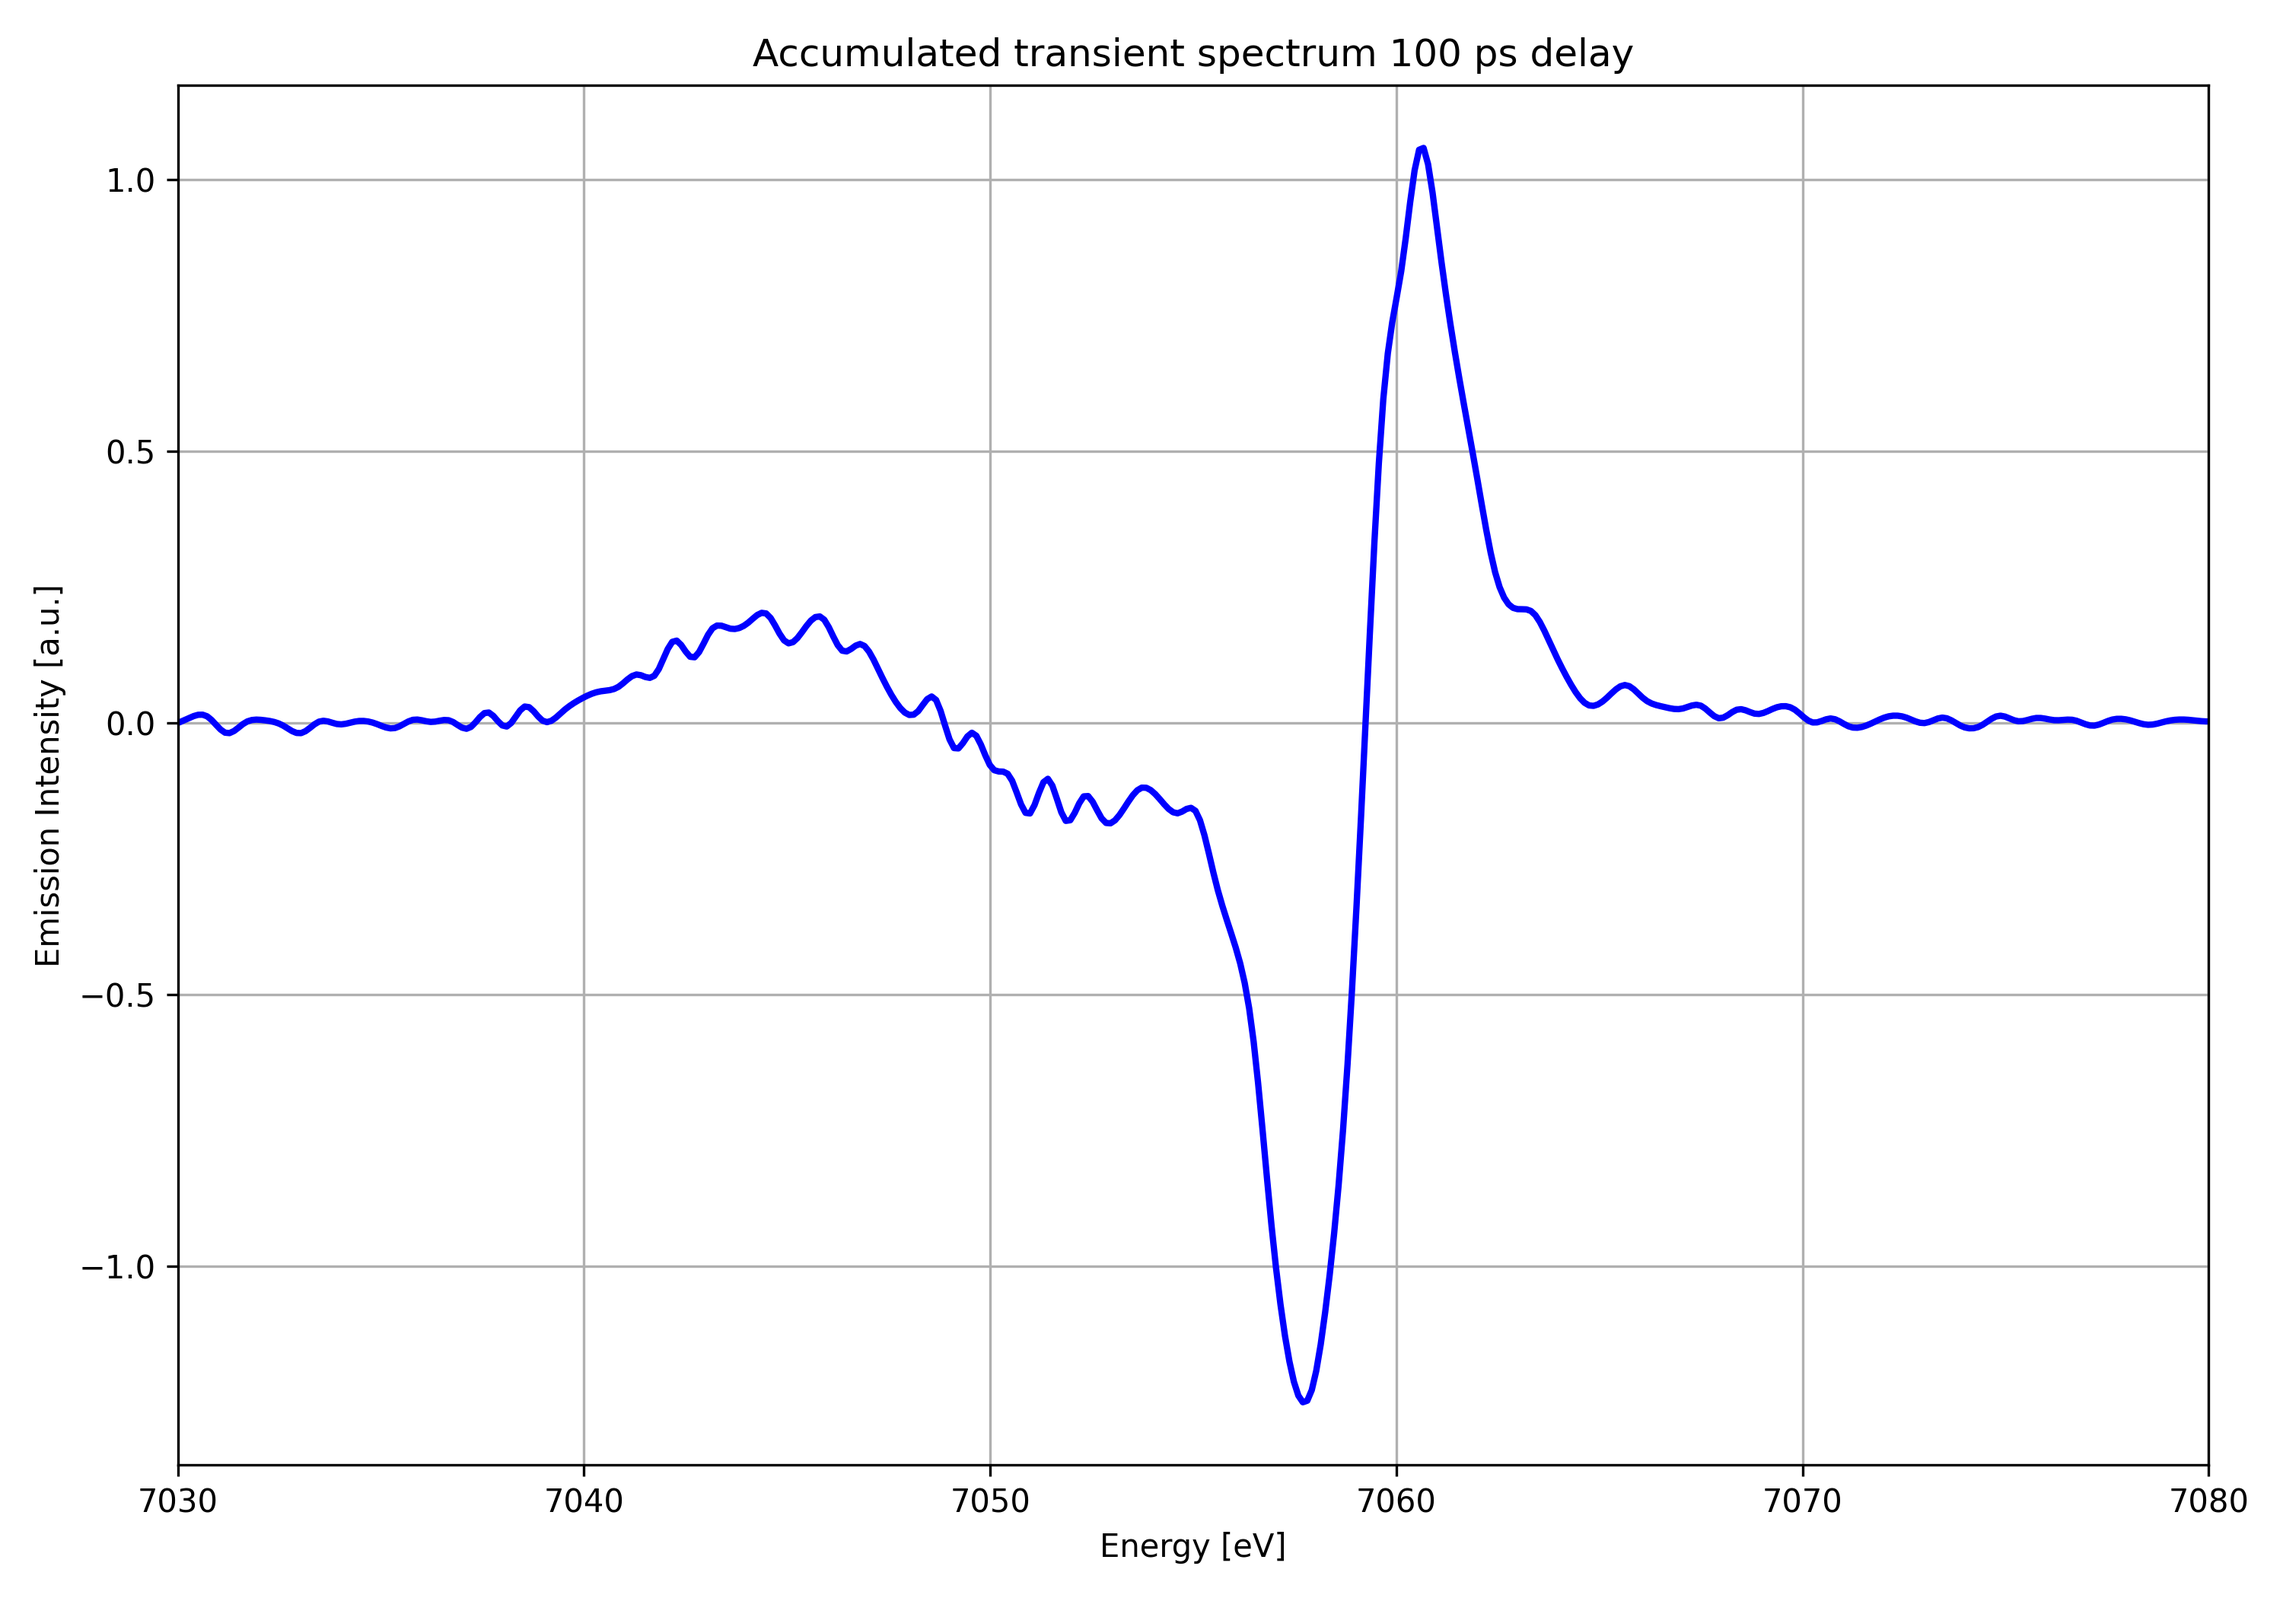
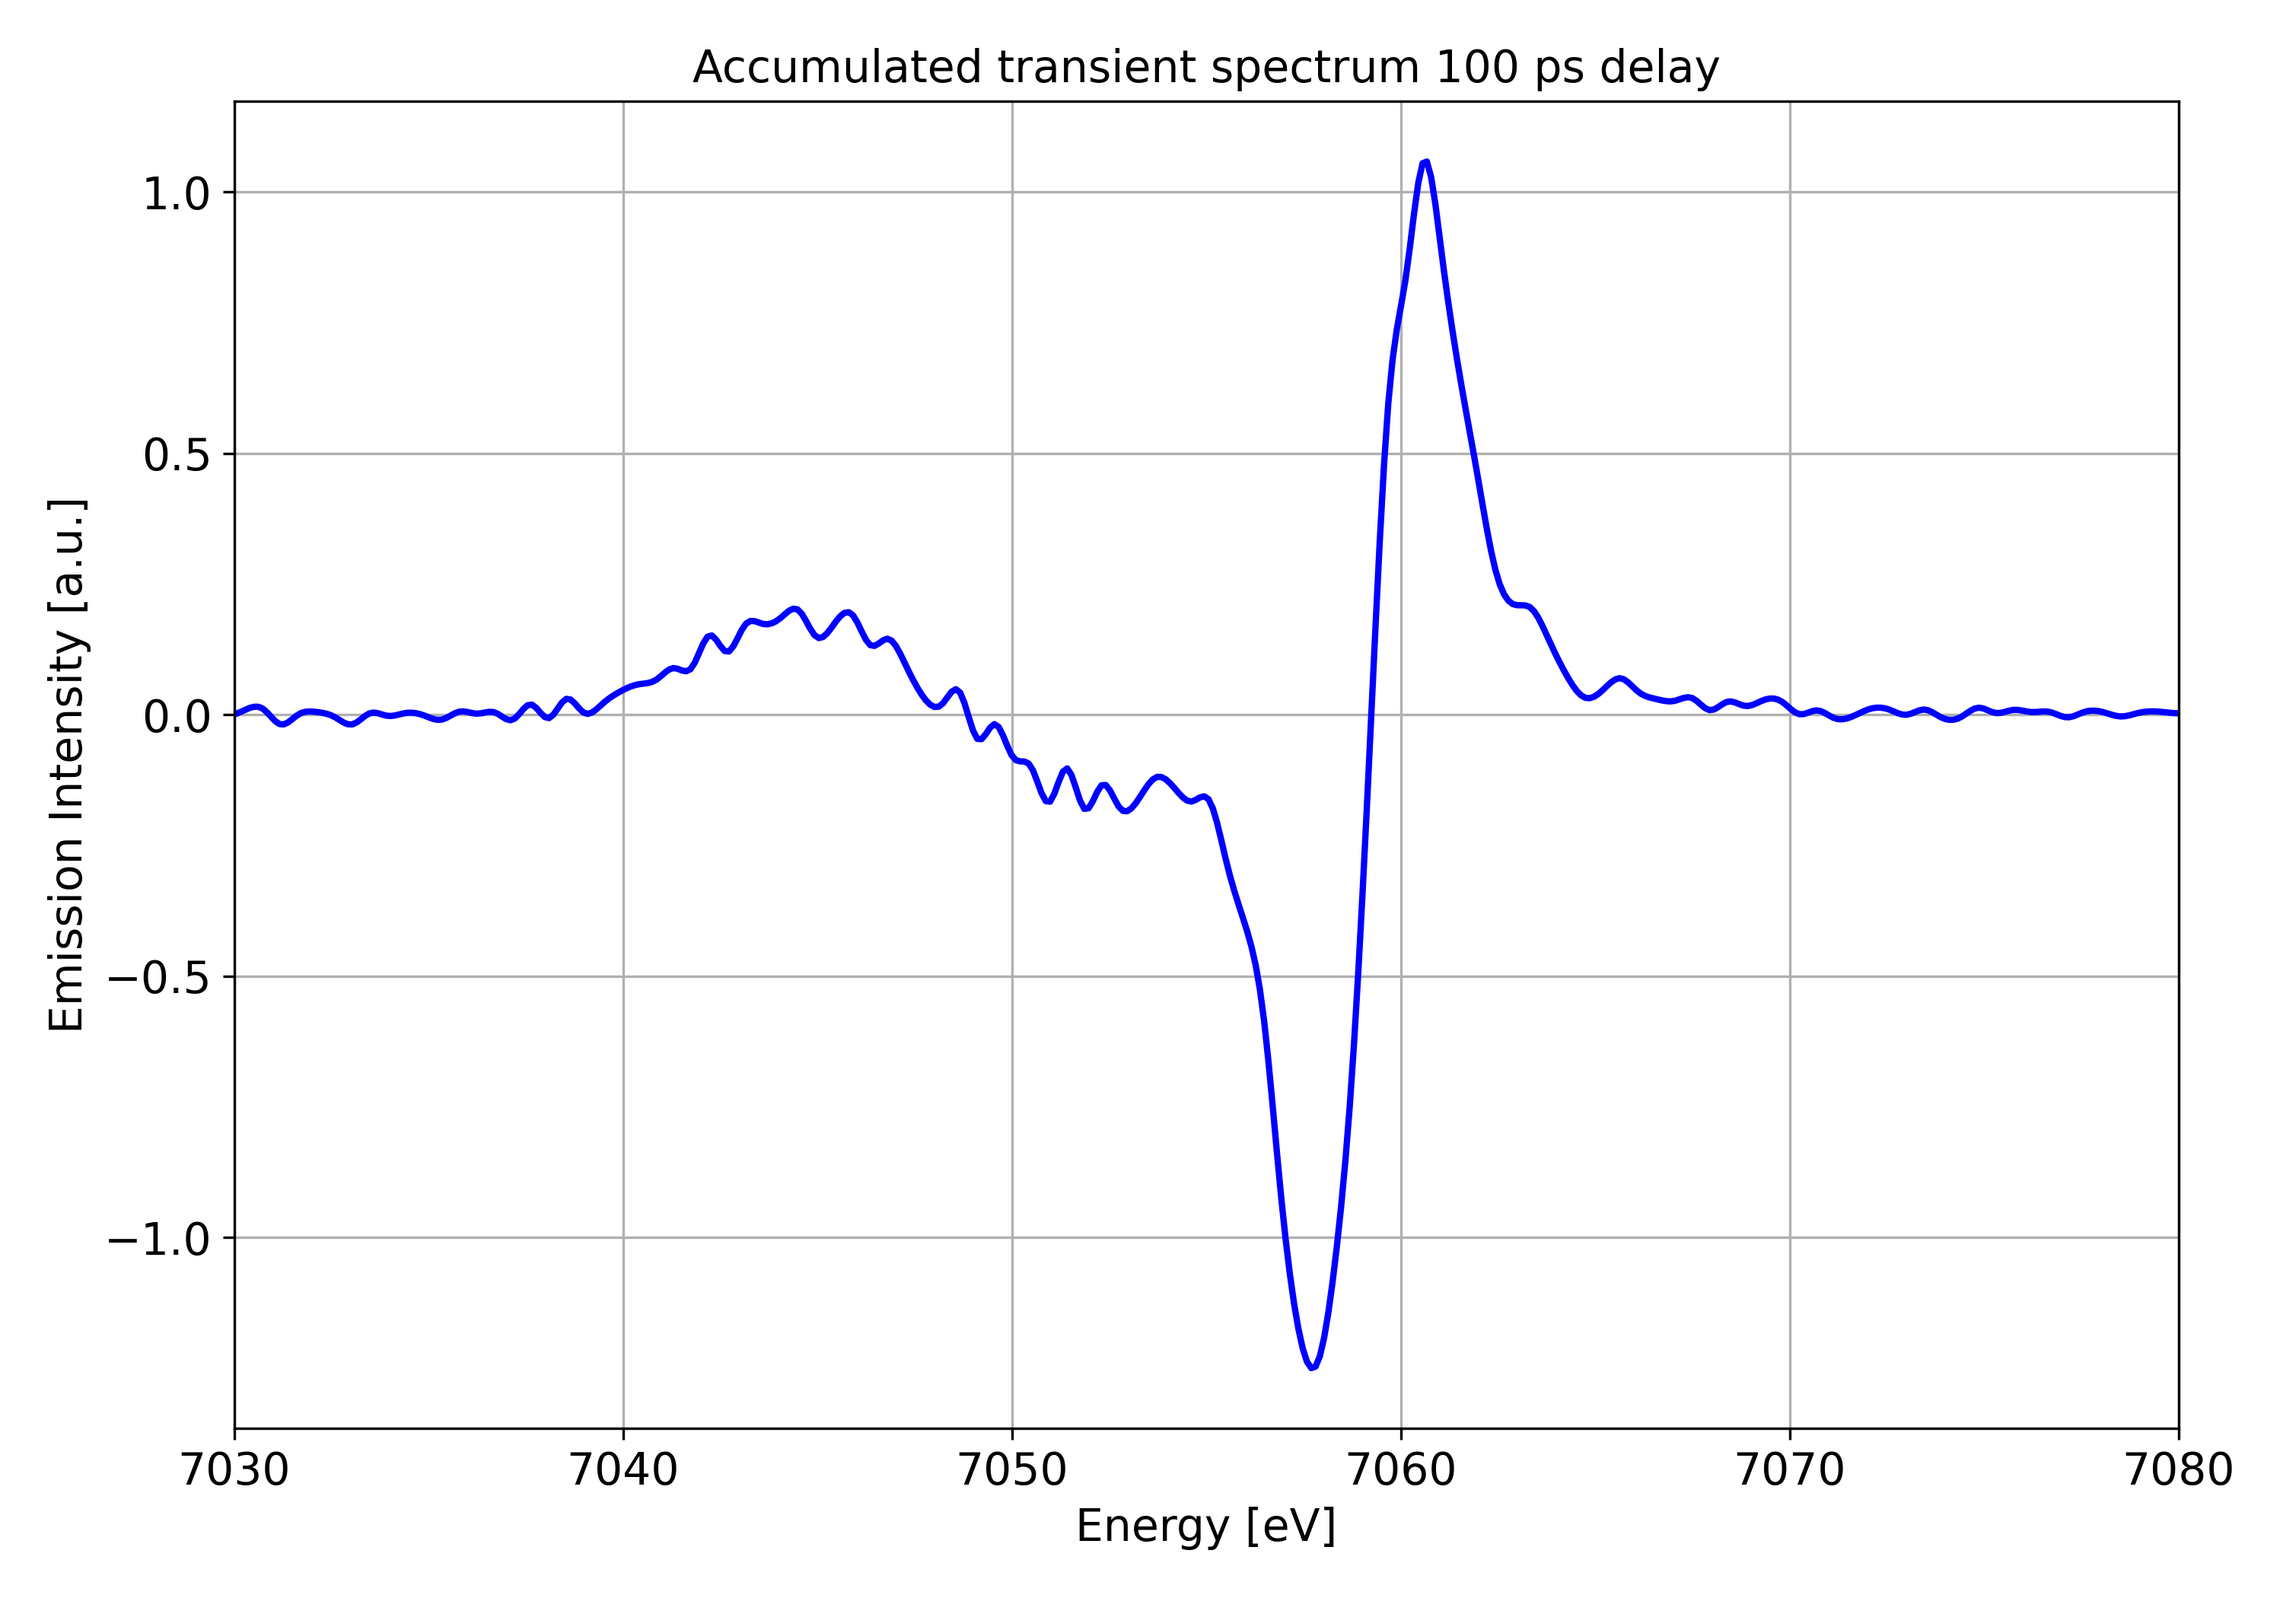
plot skalierung und so

diff --git a/P6/Daten/Analysis and Interpretation/Ref Spectrum/ref_spectrum.py b/P6/Daten/Analysis and Interpretation/Ref Spectrum/ref_spectrum.py
@@ -3,43 +3,44 @@ import pandas as pd
 import matplotlib.pyplot as plt
 
 plt.rcParams.update({
-    "font.size": 13,
-    "axes.titlesize": 13,
-    "axes.labelsize": 13,
-    "xtick.labelsize": 13,
-    "ytick.labelsize": 13,
-    "legend.fontsize": 13,
-    "legend.title_fontsize": 13,
+    "font.size": 14,
+    "axes.titlesize": 14,
+    "axes.labelsize": 14,
+    "xtick.labelsize": 14,
+    "ytick.labelsize": 14,
+    "legend.fontsize": 14,
+    "legend.title_fontsize": 14,
 })
 
 path = "Daten/Analysis and Interpretation/Ref Spectrum/Reference_Data.csv"
 
 df = pd.read_csv(path, sep=';', decimal=',')
 
-plt.plot(df["emission energy"], df["singlet"], label="Singlet")
-plt.plot(df["emission energy"], df["doublet"], label="Doublet")
-plt.plot(df["emission energy"], df["triplet"], label="Triplet")
-plt.plot(df["emission energy"], df["quartet"], label="Quartet")
-plt.plot(df["emission energy"], df["quintet"], label="Quintet")
+fig, (ax1, ax2) = plt.subplots(1, 2, figsize=(20, 6), constrained_layout=True)
 
-plt.xlabel("Energy")
-plt.ylabel("Intensity")
-plt.legend()
-plt.title("Reference Spectrum")
-plt.savefig("Daten/Analysis and Interpretation/Reference_Spectrum.png")
+ax1.plot(df["emission energy"], df["singlet"], label="Singlet")
+ax1.plot(df["emission energy"], df["doublet"], label="Doublet")
+ax1.plot(df["emission energy"], df["triplet"], label="Triplet")
+ax1.plot(df["emission energy"], df["quartet"], label="Quartet")
+ax1.plot(df["emission energy"], df["quintet"], label="Quintet")
+
+ax1.set_xlabel("Energy")
+ax1.set_ylabel("Intensity")
+ax1.legend()
+ax1.set_title("Reference Spectrum")
 
 # Take all possible differences between singlet and higher spin states from the reference spectra and plot these.
 
-plt.figure(figsize=(10, 6))
-plt.plot(df["emission energy"], df["singlet"] - df["singlet"], label="Singlet - Singlet")
-plt.plot(df["emission energy"], df["doublet"] - df["singlet"], label="Doublet - Singlet")
-plt.plot(df["emission energy"], df["triplet"] - df["singlet"], label="Triplet - Singlet")
-plt.plot(df["emission energy"], df["quartet"] - df["singlet"], label="Quartet - Singlet")
-plt.plot(df["emission energy"], df["quintet"] - df["singlet"], label="Quintet - Singlet")
+ax2.plot(df["emission energy"], df["singlet"] - df["singlet"], label="Singlet - Singlet")
+ax2.plot(df["emission energy"], df["doublet"] - df["singlet"], label="Doublet - Singlet")
+ax2.plot(df["emission energy"], df["triplet"] - df["singlet"], label="Triplet - Singlet")
+ax2.plot(df["emission energy"], df["quartet"] - df["singlet"], label="Quartet - Singlet")
+ax2.plot(df["emission energy"], df["quintet"] - df["singlet"], label="Quintet - Singlet")
 
-plt.xlabel("Energy")
-plt.ylabel("Intensity")
-plt.legend()
-plt.title("Differences in Reference Spectrum")
-plt.savefig("Daten/Analysis and Interpretation/Differences_Reference_Spectrum.png")
+ax2.set_xlabel("Energy")
+ax2.set_ylabel("Intensity")
+ax2.legend()
+ax2.set_title("Differences in Reference Spectrum")
+
+fig.savefig("Daten/Analysis and Interpretation/Reference_Spectra.png")
 plt.show()

diff --git a/P6/Auswertung EXP21/kinetic traces_energy peaks finding.py b/P6/Auswertung EXP21/kinetic traces_energy peaks finding.py
@@ -10,13 +10,13 @@ from matplotlib.colors import Normalize
 import plotly.graph_objects as go
 
 plt.rcParams.update({
-    "font.size": 12,
-    "axes.titlesize": 12,
-    "axes.labelsize": 12,
-    "xtick.labelsize": 12,
-    "ytick.labelsize": 12,
-    "legend.fontsize": 12,
-    "legend.title_fontsize": 12,
+    "font.size": 14,
+    "axes.titlesize": 14,
+    "axes.labelsize": 14,
+    "xtick.labelsize": 14,
+    "ytick.labelsize": 14,
+    "legend.fontsize": 14,
+    "legend.title_fontsize": 14,
 })
 
 folder = Path("Daten/Experiment with Data Acquisition/messreihe")

diff --git a/P6/Auswertung EXP21/kinetic traces v2.py b/P6/Auswertung EXP21/kinetic traces v2.py
@@ -8,13 +8,13 @@ from scipy.optimize import curve_fit
 from scipy.special import erf
 
 plt.rcParams.update({
-    "font.size": 12,
-    "axes.titlesize": 12,
-    "axes.labelsize": 12,
-    "xtick.labelsize": 12,
-    "ytick.labelsize": 12,
-    "legend.fontsize": 12,
-    "legend.title_fontsize": 12,
+    "font.size": 14,
+    "axes.titlesize": 14,
+    "axes.labelsize": 14,
+    "xtick.labelsize": 14,
+    "ytick.labelsize": 14,
+    "legend.fontsize": 14,
+    "legend.title_fontsize": 14,
 })
 
 folder = Path("Daten/Experiment with Data Acquisition/messreihe")

diff --git a/P6/Auswertung EXP21/time resolved difference spectra v2.py b/P6/Auswertung EXP21/time resolved difference spectra v2.py
@@ -7,13 +7,13 @@ from matplotlib import cm
 from matplotlib.colors import Normalize
 
 plt.rcParams.update({
-    "font.size": 12,
-    "axes.titlesize": 12,
-    "axes.labelsize": 12,
-    "xtick.labelsize": 12,
-    "ytick.labelsize": 12,
-    "legend.fontsize": 12,
-    "legend.title_fontsize": 12,
+    "font.size": 14,
+    "axes.titlesize": 14,
+    "axes.labelsize": 14,
+    "xtick.labelsize": 14,
+    "ytick.labelsize": 14,
+    "legend.fontsize": 14,
+    "legend.title_fontsize": 14,
 })
 
 folder = Path("Daten/Experiment with Data Acquisition/messreihe")

diff --git a/P6/Auswertung EXP21/time-resolved difference spectra.py b/P6/Auswertung EXP21/time-resolved difference spectra.py
@@ -7,13 +7,13 @@ from matplotlib import cm
 from matplotlib.colors import Normalize
 
 plt.rcParams.update({
-    "font.size": 12,
-    "axes.titlesize": 12,
-    "axes.labelsize": 12,
-    "xtick.labelsize": 12,
-    "ytick.labelsize": 12,
-    "legend.fontsize": 12,
-    "legend.title_fontsize": 12,
+    "font.size": 14,
+    "axes.titlesize": 14,
+    "axes.labelsize": 14,
+    "xtick.labelsize": 14,
+    "ytick.labelsize": 14,
+    "legend.fontsize": 14,
+    "legend.title_fontsize": 14,
 })
 
 folder = Path("Daten/Experiment with Data Acquisition/messreihe")

diff --git a/P6/Auswertung EXP21/spectrum map 100ps.py b/P6/Auswertung EXP21/spectrum map 100ps.py
@@ -7,13 +7,13 @@ from matplotlib import cm
 from matplotlib.colors import Normalize
 
 plt.rcParams.update({
-    "font.size": 12,
-    "axes.titlesize": 12,
-    "axes.labelsize": 12,
-    "xtick.labelsize": 12,
-    "ytick.labelsize": 12,
-    "legend.fontsize": 12,
-    "legend.title_fontsize": 12,
+    "font.size": 14,
+    "axes.titlesize": 14,
+    "axes.labelsize": 14,
+    "xtick.labelsize": 14,
+    "ytick.labelsize": 14,
+    "legend.fontsize": 14,
+    "legend.title_fontsize": 14,
 })
 
 energy_grid = np.linspace(7000, 7110, 1000) #common energy grid

diff --git a/P6/Auswertung EXP21/spectrum 3d map.py b/P6/Auswertung EXP21/spectrum 3d map.py
@@ -11,13 +11,13 @@ from scipy.ndimage import gaussian_filter
 from scipy.interpolate import RectBivariateSpline
 
 plt.rcParams.update({
-    "font.size": 12,
-    "axes.titlesize": 12,
-    "axes.labelsize": 12,
-    "xtick.labelsize": 12,
-    "ytick.labelsize": 12,
-    "legend.fontsize": 12,
-    "legend.title_fontsize": 12,
+    "font.size": 14,
+    "axes.titlesize": 14,
+    "axes.labelsize": 14,
+    "xtick.labelsize": 14,
+    "ytick.labelsize": 14,
+    "legend.fontsize": 14,
+    "legend.title_fontsize": 14,
 })
 
 

diff --git a/P6/Auswertung EXP21/time-resolved difference spectra 3D.py b/P6/Auswertung EXP21/time-resolved difference spectra 3D.py
@@ -9,13 +9,13 @@ from matplotlib.colors import Normalize
 import plotly.graph_objects as go
 
 plt.rcParams.update({
-    "font.size": 12,
-    "axes.titlesize": 12,
+    "font.size": 14,
+    "axes.titlesize": 14,
     "axes.labelsize": 12,
     "xtick.labelsize": 12,
     "ytick.labelsize": 12,
-    "legend.fontsize": 12,
-    "legend.title_fontsize": 12,
+    "legend.fontsize": 14,
+    "legend.title_fontsize": 14,
 })
 
 
